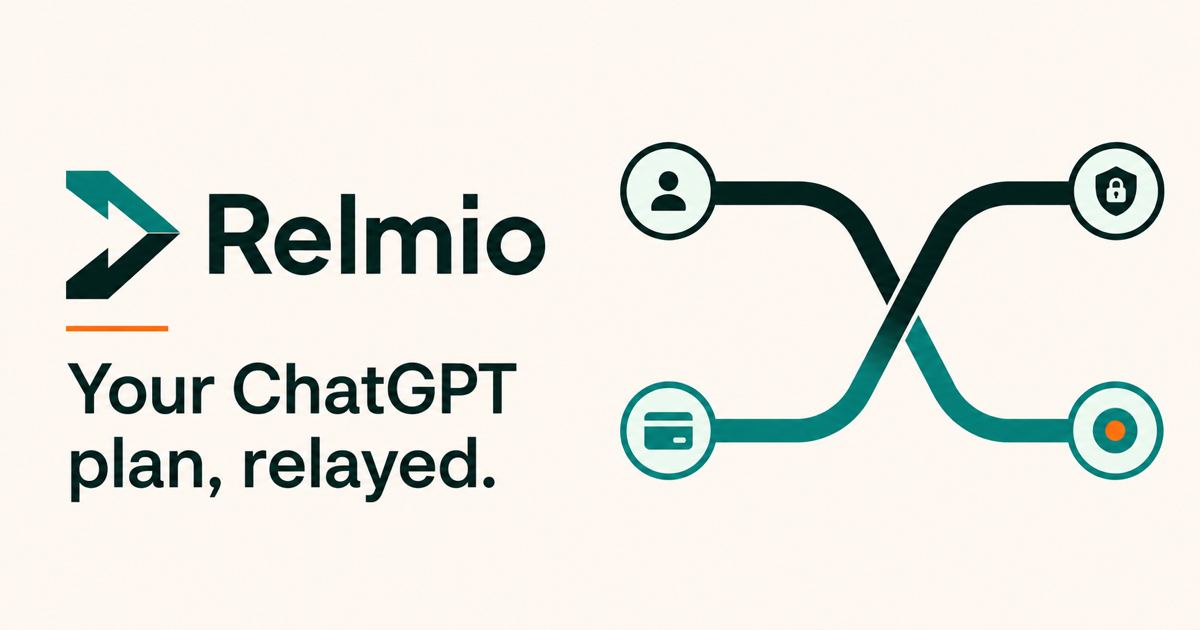
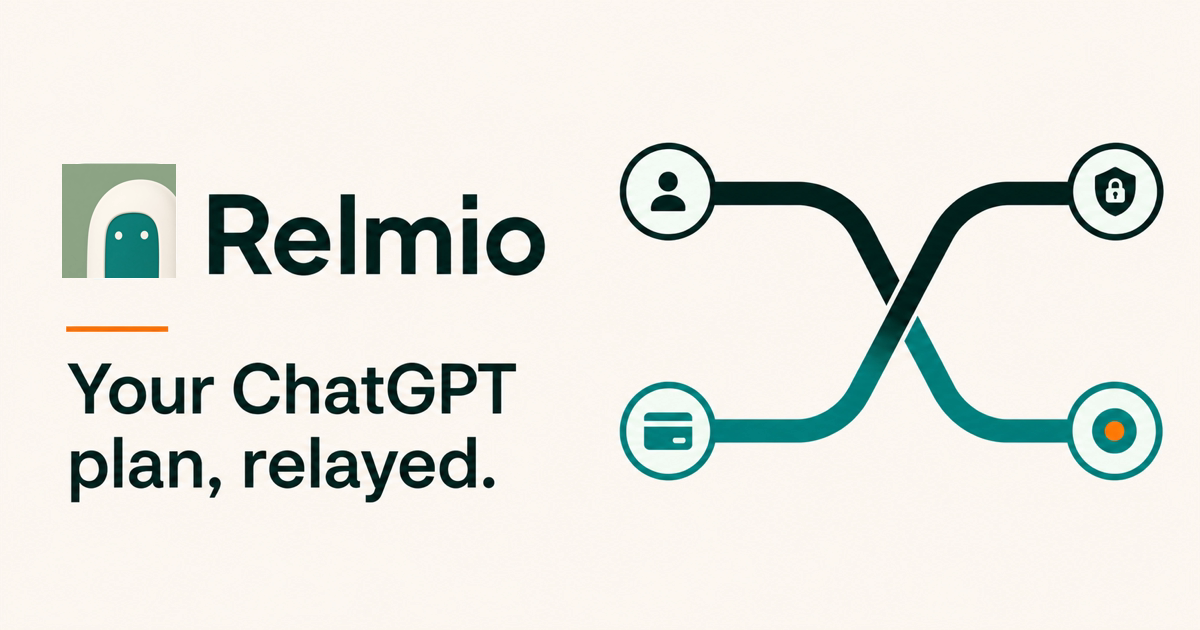
release: prepare Relmio 0.8.1

diff --git a/test/brand-assets.test.js b/test/brand-assets.test.js
@@ -9,6 +9,7 @@ test("gateway android is the canonical logo across public surfaces", async () =>
     logo,
     hostedIcon,
     localIcon,
+    socialPreview,
     readme,
     npmReadme,
     brandGuide,
@@ -21,6 +22,7 @@ test("gateway android is the canonical logo across public surfaces", async () =>
     readFile("docs/images/brand/relmio-logo.png"),
     readFile("web/public/relmio-icon.png"),
     readFile("src/ui/relmio-icon.png"),
+    readFile("web/public/og.png"),
     readFile("README.md", "utf8"),
     readFile("npm/README.md", "utf8"),
     readFile("docs/brand.md", "utf8"),
@@ -34,6 +36,12 @@ test("gateway android is the canonical logo across public surfaces", async () =>
   assert.deepEqual(logo.subarray(0, PNG_SIGNATURE.length), PNG_SIGNATURE);
   assert.deepEqual(hostedIcon, logo);
   assert.deepEqual(localIcon, logo);
+  assert.deepEqual(
+    socialPreview.subarray(0, PNG_SIGNATURE.length),
+    PNG_SIGNATURE,
+  );
+  assert.equal(socialPreview.readUInt32BE(16), 1200);
+  assert.equal(socialPreview.readUInt32BE(20), 630);
   assert.ok(
     readme.indexOf('src="docs/images/brand/relmio-logo.png"') <
       readme.indexOf("# Relmio"),
@@ -43,6 +51,8 @@ test("gateway android is the canonical logo across public surfaces", async () =>
     /cdn\.jsdelivr\.net\/npm\/relmio@latest\/docs\/images\/brand\/relmio-logo\.png/u,
   );
   assert.match(brandGuide, /images\/brand\/relmio-logo\.png/u);
+  assert.match(metadata, /new URL\("\/og\.png", metadataBase\)/u);
+  assert.match(metadata, /width: 1200, height: 630/u);
 
   for (const source of [metadata, hostedPage, installPage]) {
     assert.match(source, /relmio-icon\.png/u);

diff --git a/CHANGELOG.md b/CHANGELOG.md
@@ -7,11 +7,16 @@ checks the registry separately after publication.
 
 ## Unreleased
 
+## [0.8.1] - 2026-08-26
+
 ### Changed
 
 - Adopt the Gateway Android logo across the GitHub and npm READMEs, hosted
-  site, and local wizard, and add a prominent Legal warning against bypassing
-  rate limits, restrictions, or safeguards.
+  site, and local wizard.
+- Refresh the Open Graph and social-preview card with the Gateway Android while
+  preserving the Relmio relay message and visual flow.
+- Add a prominent Legal warning against bypassing rate limits, restrictions, or
+  safeguards.
 
 ## [0.8.0] - 2026-08-26
 
